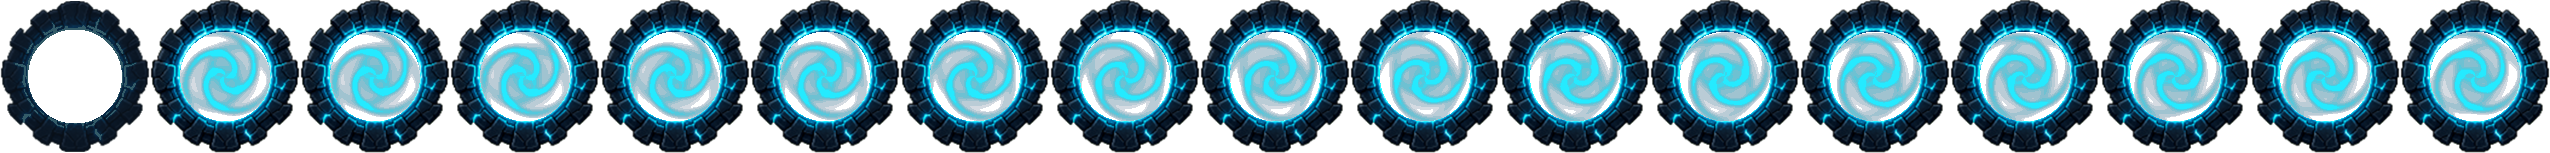
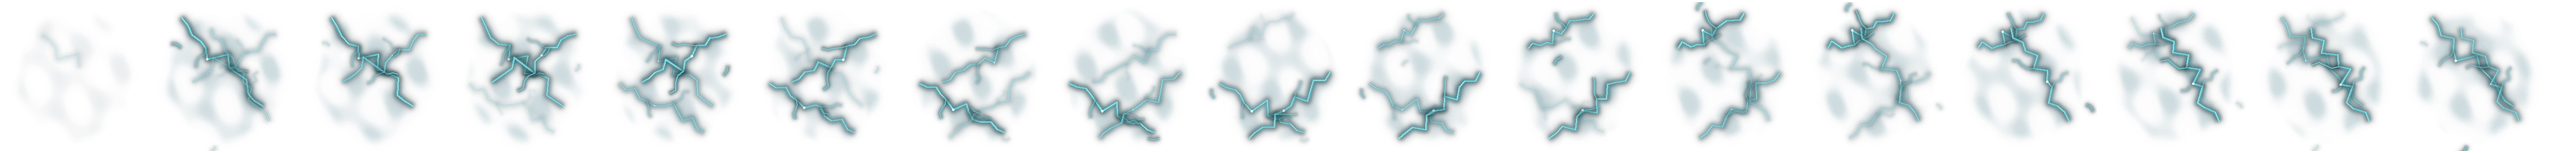
Update portal gfx

diff --git a/src/portal.cpp b/src/portal.cpp
@@ -20,7 +20,7 @@ using namespace rinvid;
 constexpr int32_t PORTAL_WIDTH = 150;
 constexpr int32_t PORTAL_HEIGHT = 153;
 constexpr std::uint32_t PORTAL_FRAME_COUNT = 17U;
-constexpr double PORTAL_ACTIVE_FRAMERATE = 24.0;
+constexpr double PORTAL_ACTIVE_FRAMERATE = 16.0;
 
 Portal::Portal(Vector2f position, LevelFactory level_factory) : level_factory_{level_factory}
 {